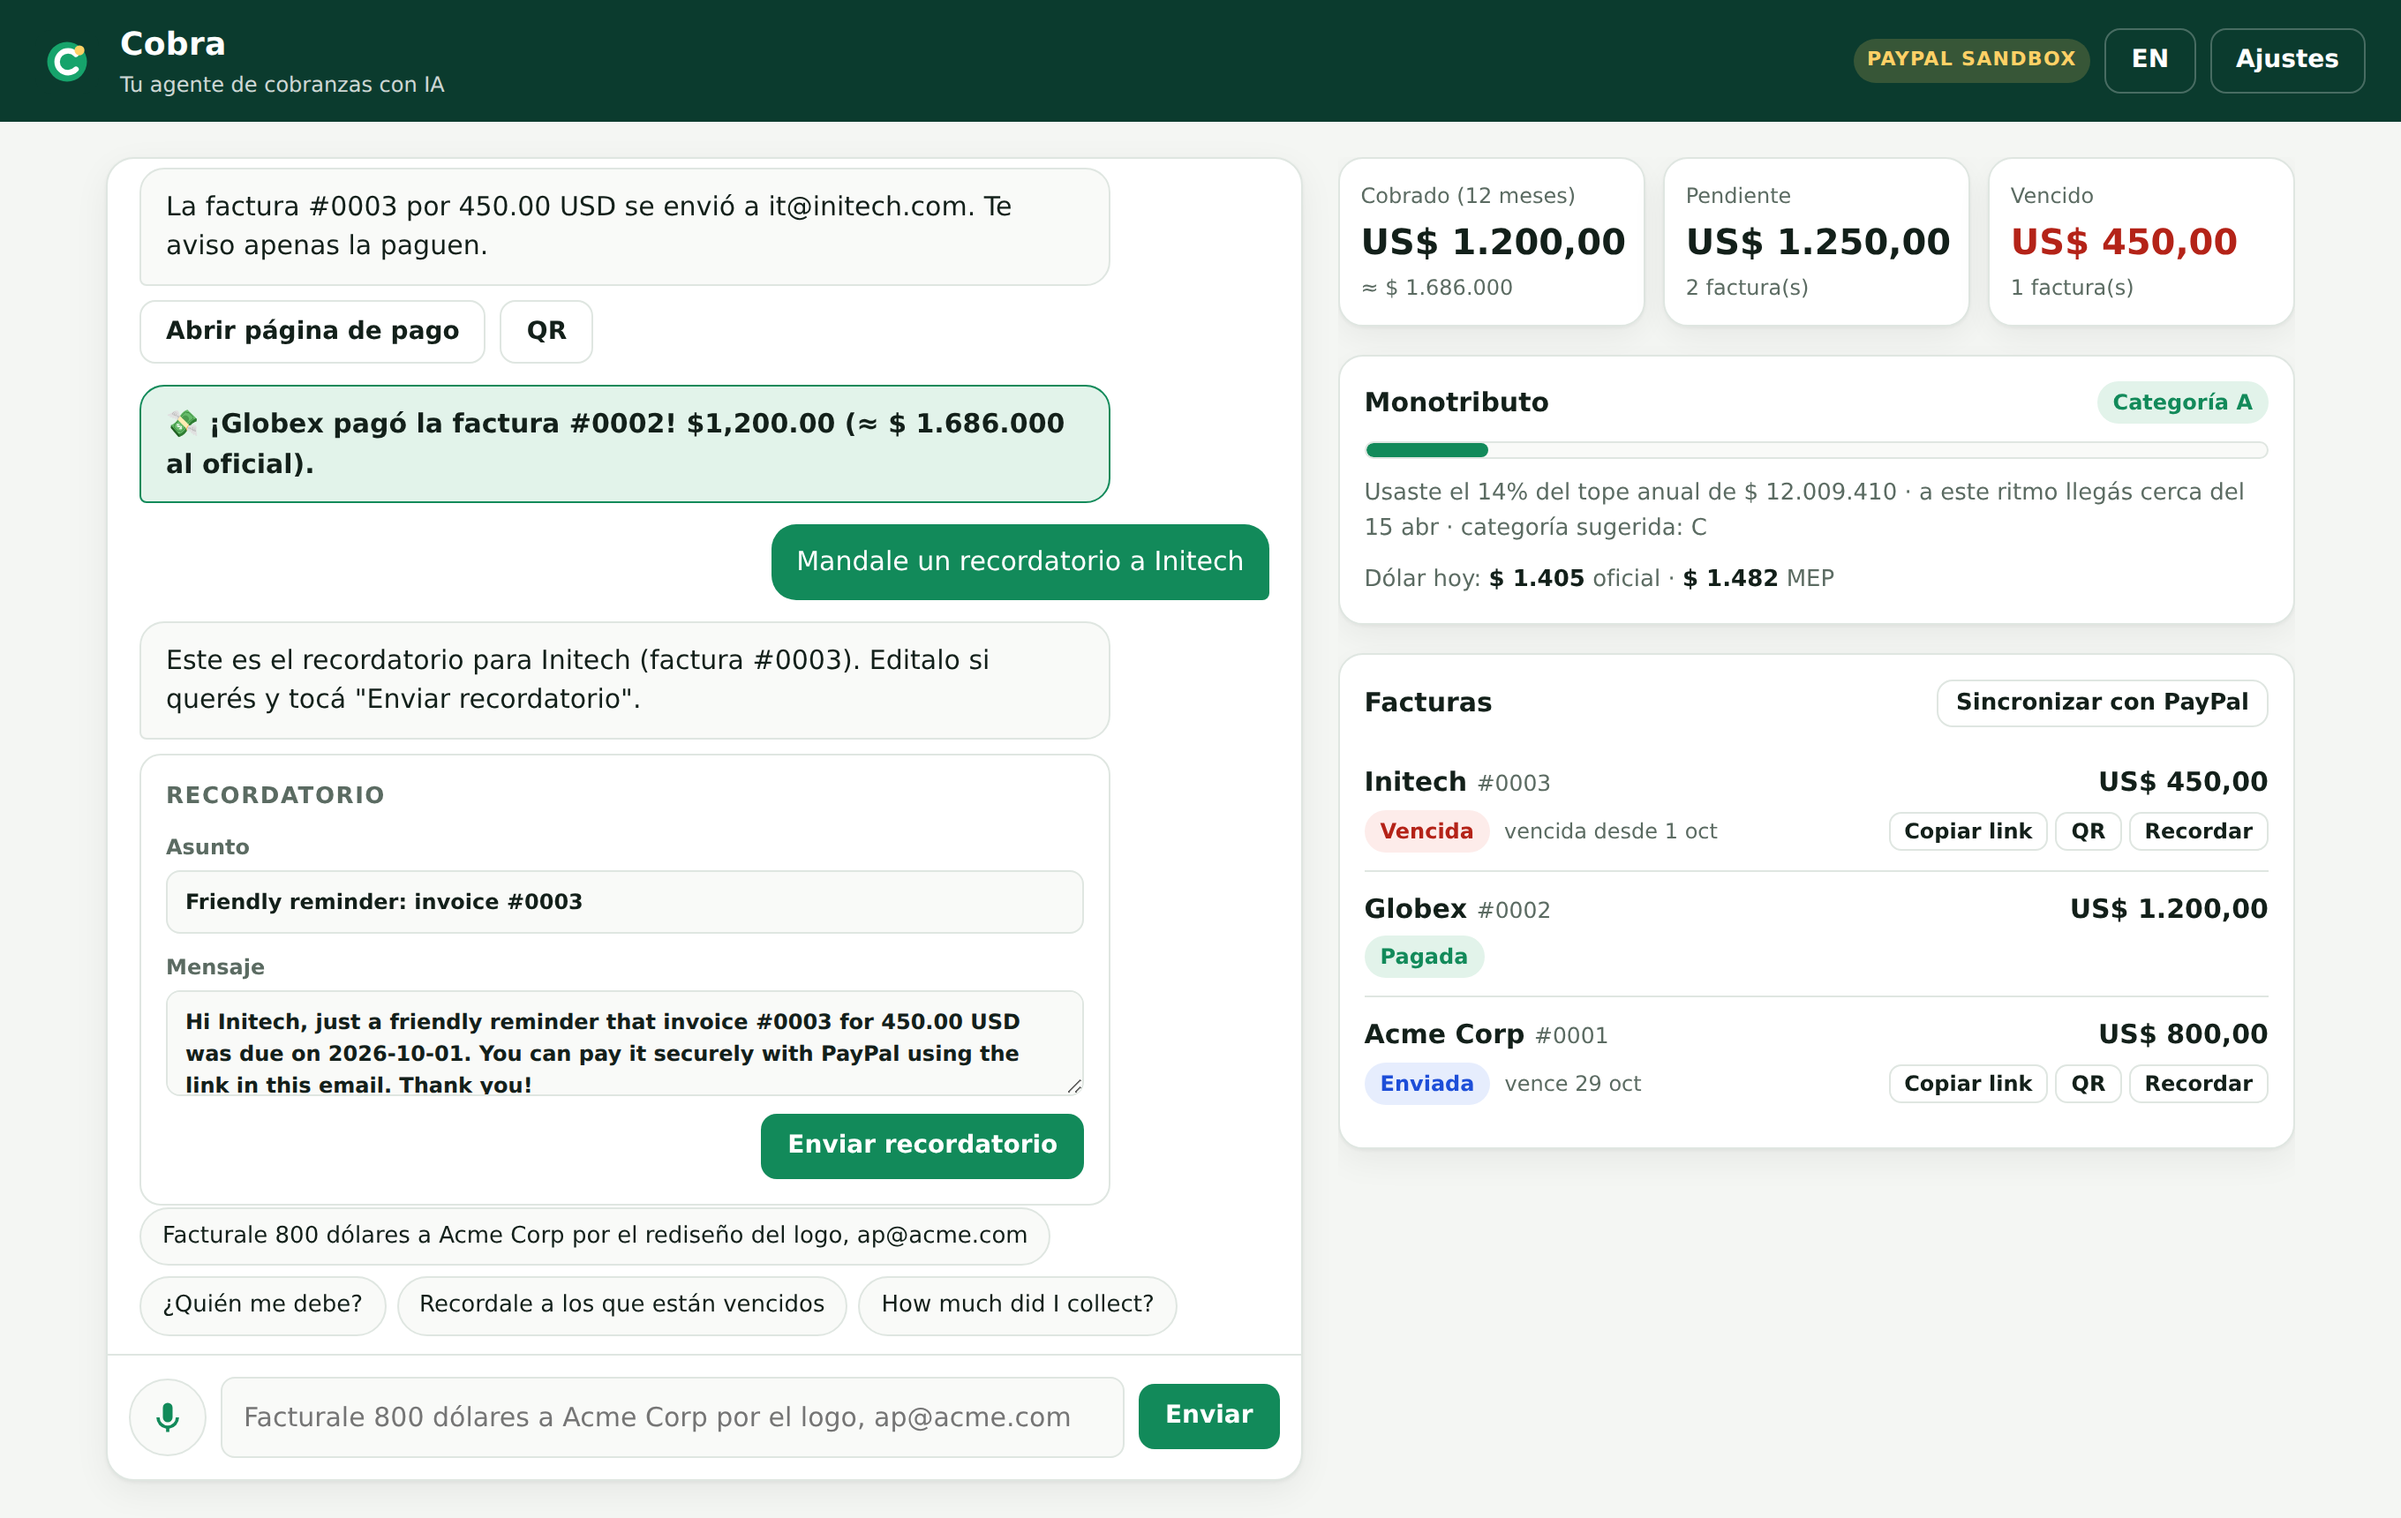
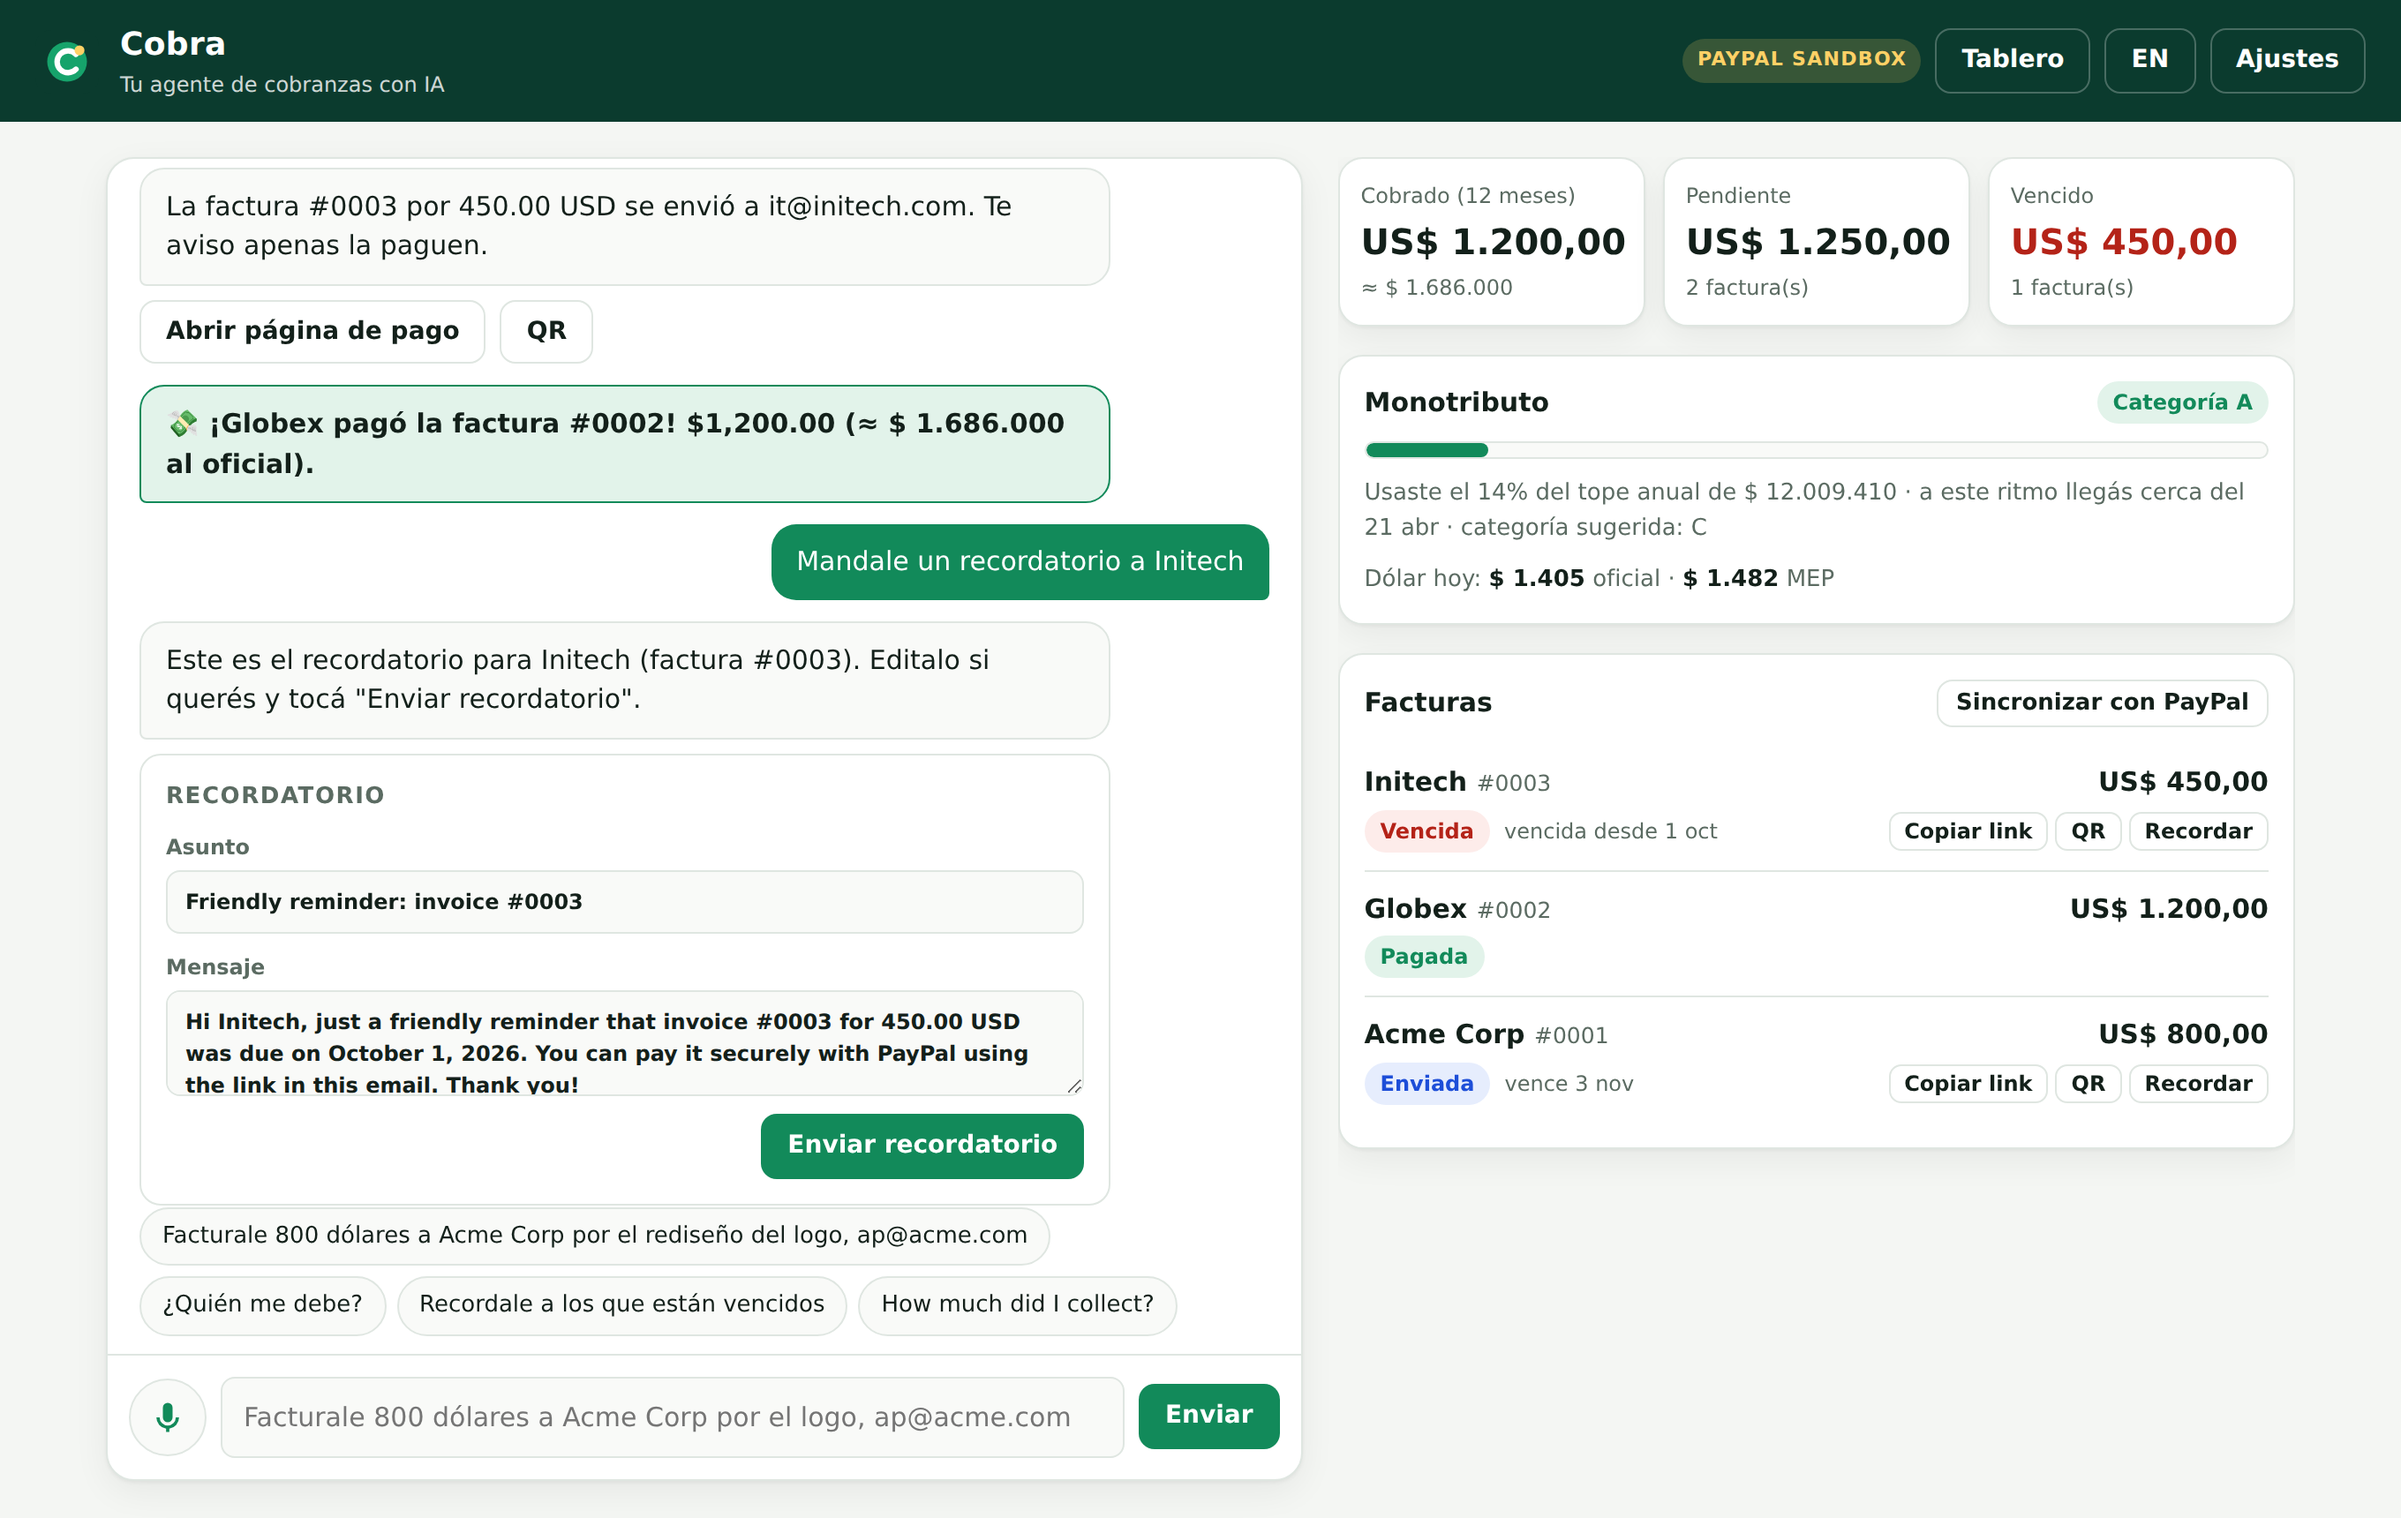
Encabezado del chat en celulares con el botón de Insights; capturas actualizadas
Claude-Session: https://claude.ai/code/session_01EyR9Zp5wEXuj6qUtafipWx

Changed region(s): [[0.0625, 0.6779, 0.4375, 0.7395], [0.6875, 0.0, 0.875, 0.0616], [0.6562, 0.7087, 0.6875, 0.7395]]

diff --git a/public/estilos.css b/public/estilos.css
@@ -157,6 +157,9 @@ dialog h2 { margin: 0 0 12px; font-size: 18px; }
   .sandbox { display: none; }
 }
 @media (max-width: 480px) {
+  .marca small { display: none; }
+  .top-acciones { gap: 4px; }
+  .top-acciones .btn { padding-left: 10px; padding-right: 10px; }
   .kpis { grid-template-columns: 1fr 1fr; }
   .kpis .kpi:first-child { grid-column: 1 / -1; }
   .campos { grid-template-columns: 1fr; }
